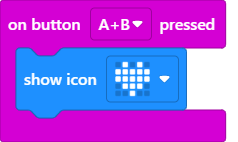
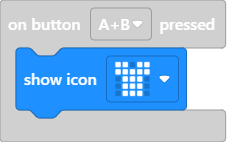
AB basılınca forma

diff --git a/main.ts b/main.ts
@@ -2,7 +2,7 @@ input.onButtonPressed(Button.A, function () {
     basic.showIcon(IconNames.Happy)
 })
 input.onButtonPressed(Button.AB, function () {
-    basic.showIcon(IconNames.Heart)
+    basic.showIcon(IconNames.TShirt)
 })
 input.onButtonPressed(Button.B, function () {
     basic.showIcon(IconNames.Sad)
